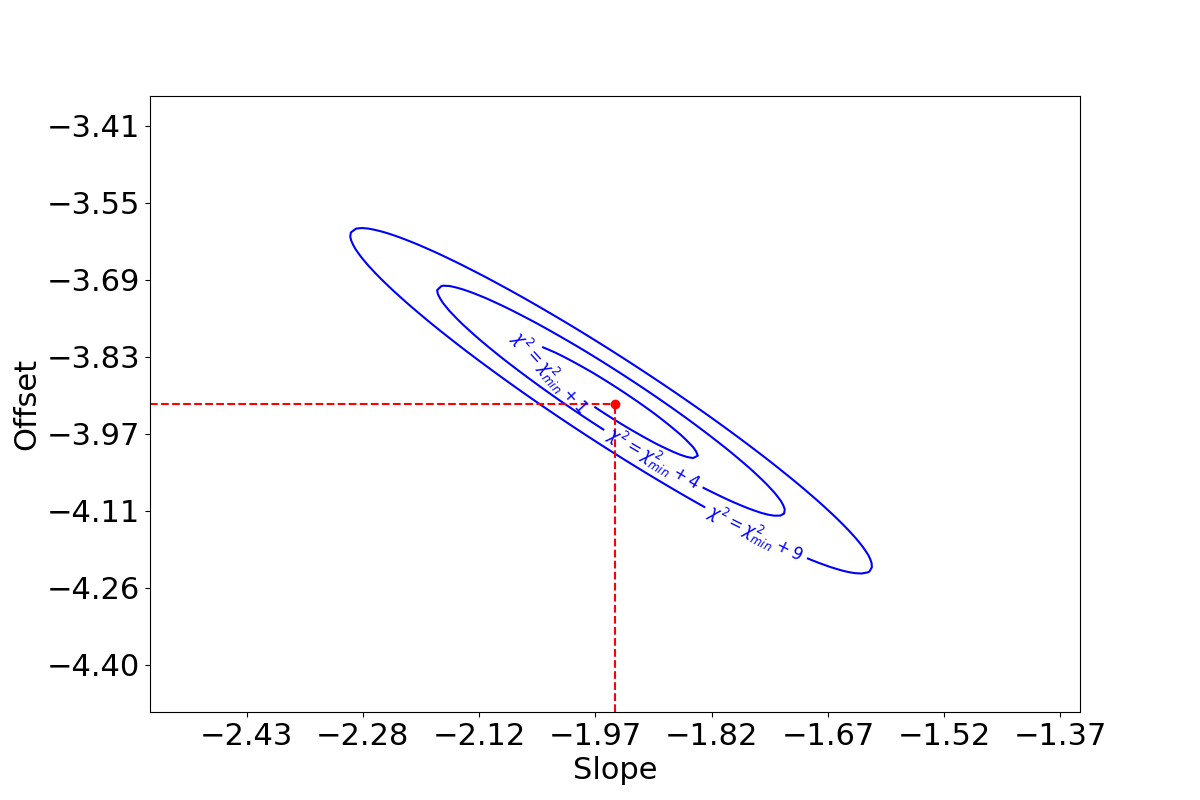
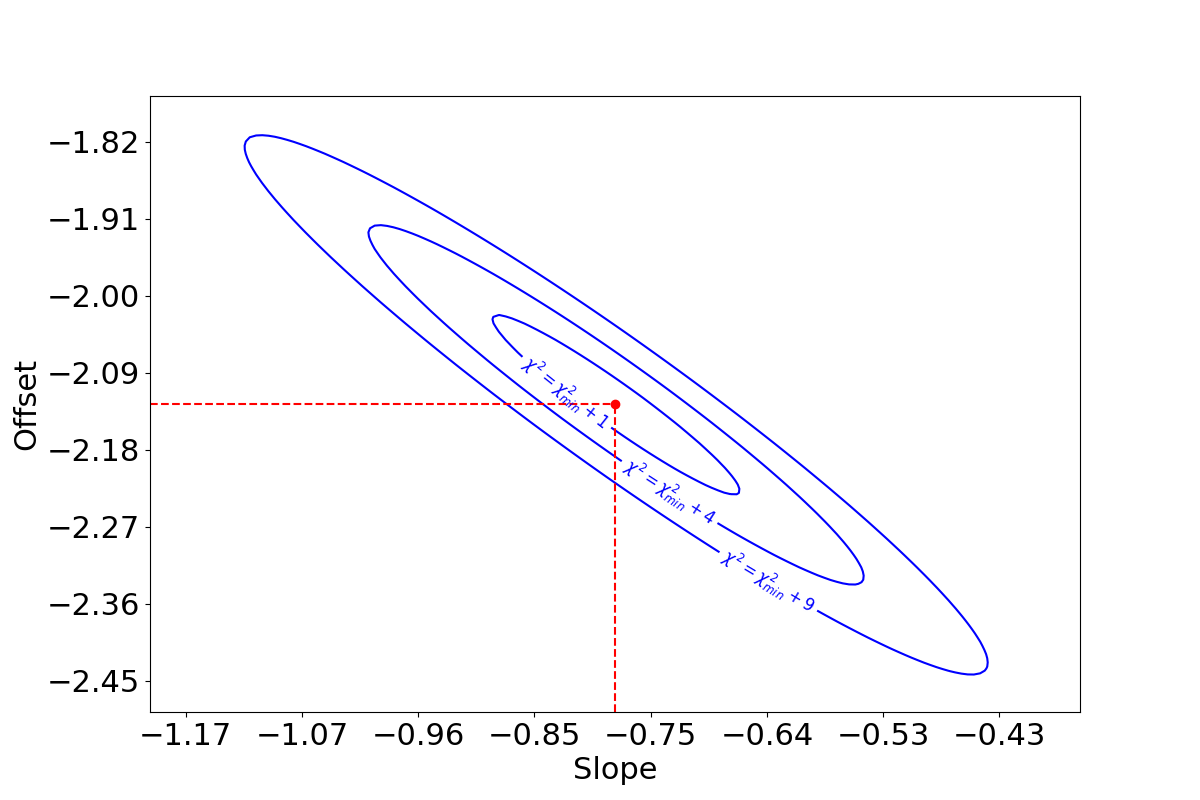
Changed factor in multiplication for PL

diff --git a/p_l_relationship.py b/p_l_relationship.py
@@ -172,7 +172,7 @@ def plot_calc(mags, mags_errs, periods, periods_errs, dist_pc, dist_pc_errs, bvc
     
     print(bvcorrection)
     
-    abs_mags = (mags - 3.1 * bvcorrection) - 5*np.log10(dist_pc) + 5
+    abs_mags = (mags - 0.8 * bvcorrection) - 5*np.log10(dist_pc) + 5
     
     abs_mags_errs = np.sqrt(((mags_errs**2 + (3.1 * bverror)**2)) + (5*(dist_pc_errs/(np.log(10)*dist_pc)))**2)
     
